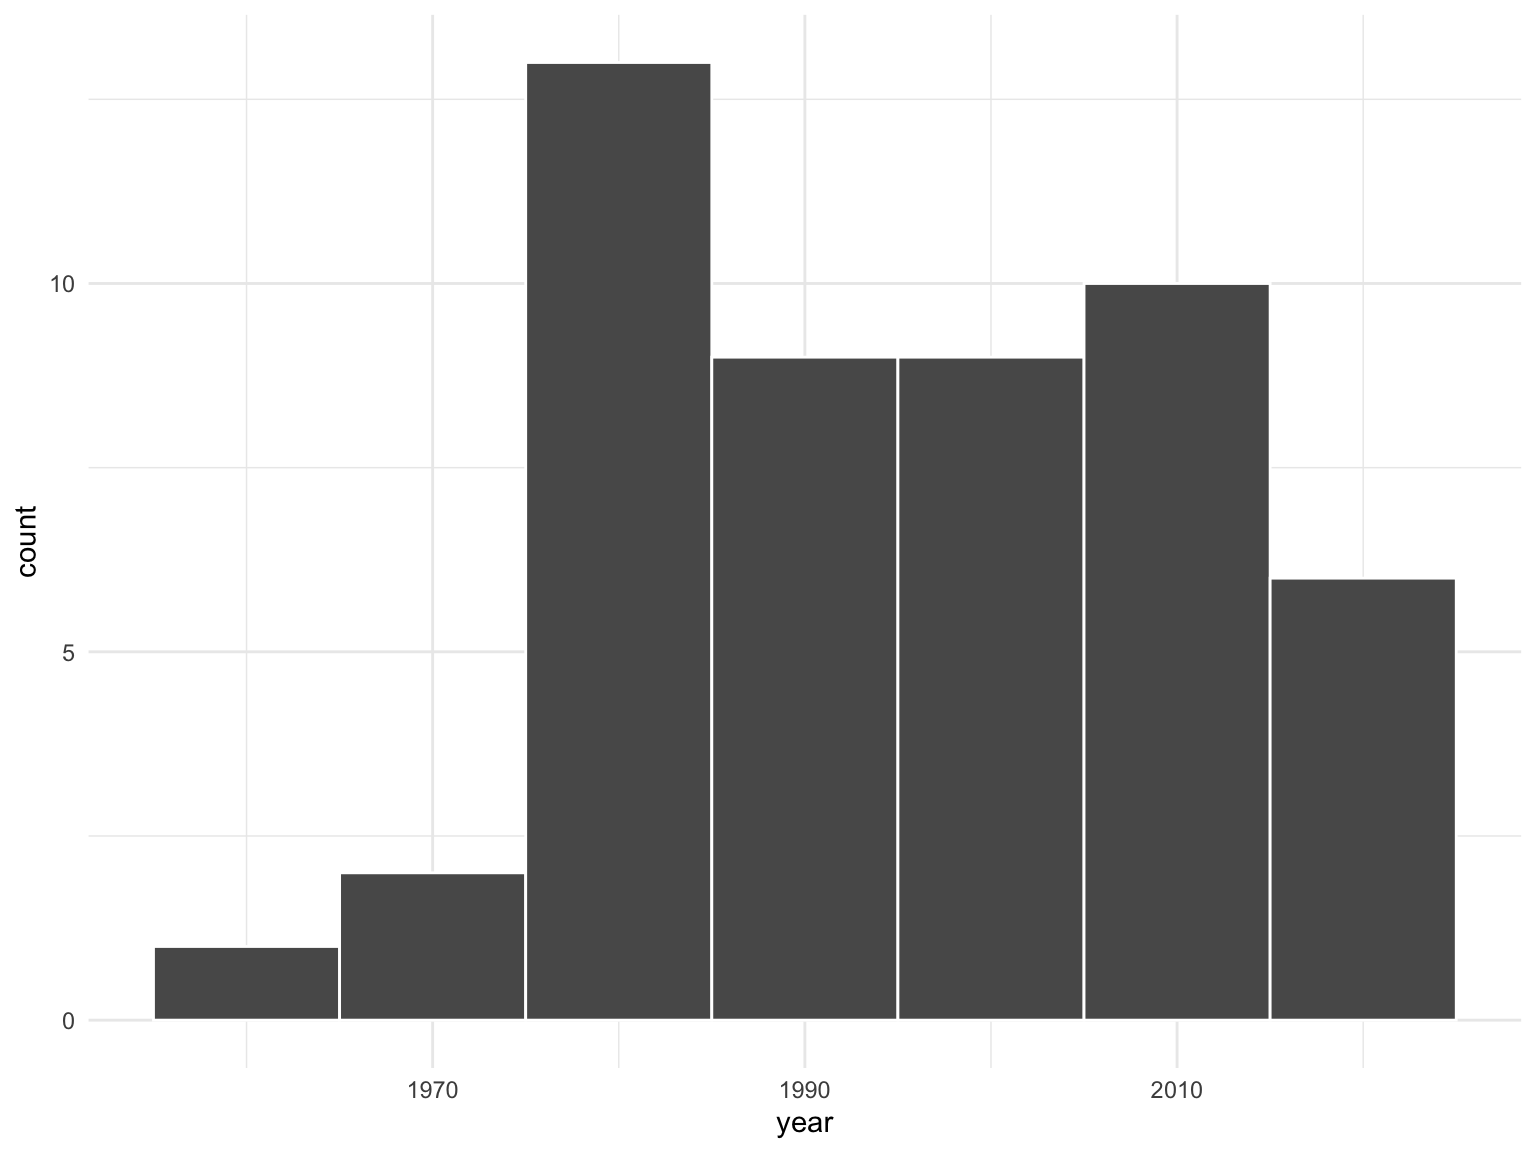
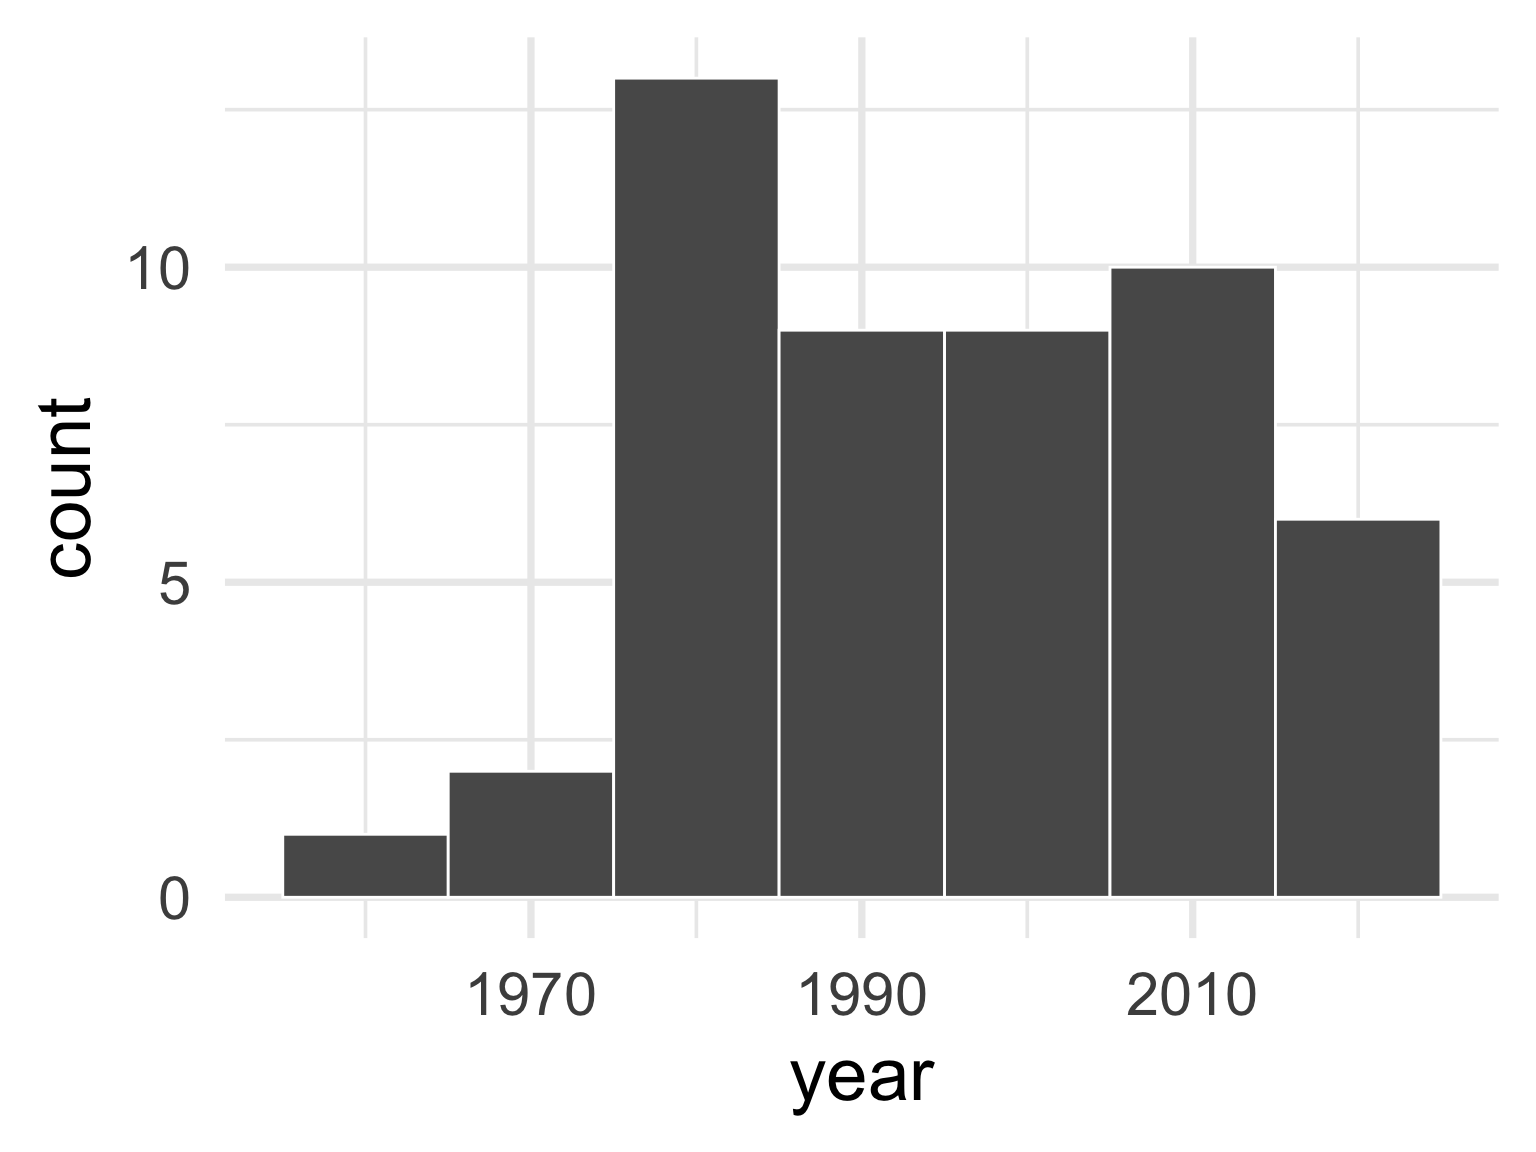
fixes slides

diff --git a/docs/slides/19_simulation-based-inference.html b/docs/slides/19_simulation-based-inference.html
@@ -556,7 +556,7 @@ Peter Gao
 <div class="sourceCode cell-code" id="cb9"><pre class="sourceCode numberSource r number-lines code-with-copy"><code class="sourceCode r"><span id="cb9-1"><a></a><span class="fu">library</span>(tidyverse)</span>
 <span id="cb9-2"><a></a><span class="fu">ggplot</span>(pennies_sample, <span class="fu">aes</span>(<span class="at">x =</span> year)) <span class="sc">+</span></span>
 <span id="cb9-3"><a></a>  <span class="fu">geom_histogram</span>(<span class="at">binwidth =</span> <span class="dv">10</span>, <span class="at">color =</span> <span class="st">"white"</span>) <span class="sc">+</span></span>
-<span id="cb9-4"><a></a>  <span class="fu">theme_minimal</span>()</span></code><button title="Copy to Clipboard" class="code-copy-button"><i class="bi"></i></button></pre></div>
+<span id="cb9-4"><a></a>  <span class="fu">theme_minimal</span>(<span class="at">base_size =</span> <span class="dv">28</span>)</span></code><button title="Copy to Clipboard" class="code-copy-button"><i class="bi"></i></button></pre></div>
 
 </div>
 <img data-src="19_simulation-based-inference_files/figure-revealjs/pennies_2-1.png" class="quarto-figure quarto-figure-center r-stretch" style="width:80.0%" alt="Bar chart showing counts for years 1970, 1990, 2000, 2010, and 2020. "></section>
@@ -610,7 +610,7 @@ Peter Gao
 <span id="cb16-4"><a></a><span class="fu">ggplot</span>(pennies_combined, <span class="fu">aes</span>(<span class="at">x =</span> year)) <span class="sc">+</span></span>
 <span id="cb16-5"><a></a>  <span class="fu">geom_histogram</span>(<span class="at">binwidth =</span> <span class="dv">10</span>, <span class="at">color =</span> <span class="st">"white"</span>) <span class="sc">+</span></span>
 <span id="cb16-6"><a></a>  <span class="fu">facet_wrap</span>(<span class="sc">~</span>title) <span class="sc">+</span> </span>
-<span id="cb16-7"><a></a>  <span class="fu">theme_minimal</span>()</span></code><button title="Copy to Clipboard" class="code-copy-button"><i class="bi"></i></button></pre></div>
+<span id="cb16-7"><a></a>  <span class="fu">theme_minimal</span>(<span class="at">base_size =</span> <span class="dv">14</span>)</span></code><button title="Copy to Clipboard" class="code-copy-button"><i class="bi"></i></button></pre></div>
 
 </div>
 <img data-src="19_simulation-based-inference_files/figure-revealjs/pennies_5-1.png" class="quarto-figure quarto-figure-center r-stretch" style="width:100.0%" alt="Two bar charts comparing 'Original sample' and 'Resample' data by year (1970, 1990, 2010). The y-axis is labeled 'count,' and the x-axis is labeled 'year.' "></section>
@@ -661,7 +661,7 @@ Peter Gao
 <div class="sourceCode cell-code" id="cb21"><pre class="sourceCode numberSource r number-lines code-with-copy"><code class="sourceCode r"><span id="cb21-1"><a></a><span class="fu">ggplot</span>(resampled_means, <span class="fu">aes</span>(<span class="at">x =</span> mean_year)) <span class="sc">+</span></span>
 <span id="cb21-2"><a></a>  <span class="fu">geom_histogram</span>(<span class="at">binwidth =</span> <span class="dv">1</span>, <span class="at">color =</span> <span class="st">"white"</span>, <span class="at">boundary =</span> <span class="dv">1990</span>) <span class="sc">+</span></span>
 <span id="cb21-3"><a></a>  <span class="fu">labs</span>(<span class="at">x =</span> <span class="st">"Sampled mean year"</span>) <span class="sc">+</span></span>
-<span id="cb21-4"><a></a>  <span class="fu">theme_minimal</span>()</span></code><button title="Copy to Clipboard" class="code-copy-button"><i class="bi"></i></button></pre></div>
+<span id="cb21-4"><a></a>  <span class="fu">theme_minimal</span>(<span class="at">base_size =</span> <span class="dv">20</span>)</span></code><button title="Copy to Clipboard" class="code-copy-button"><i class="bi"></i></button></pre></div>
 
 </div>
 <img data-src="19_simulation-based-inference_files/figure-revealjs/pennies_8-1.png" class="quarto-figure quarto-figure-center r-stretch" style="width:100.0%" alt="Bar chart showing count distribution over sampled years 1989, 1992, 1995, and 1998, with highest count of 8 in 1995."></section>
@@ -722,7 +722,7 @@ Peter Gao
 <span id="cb30-3"><a></a>  <span class="fu">geom_vline</span>(<span class="at">xintercept =</span> <span class="fu">quantile</span>(virtual_resampled_means<span class="sc">$</span>mean_year, <span class="fu">c</span>(.<span class="dv">025</span>, .<span class="dv">975</span>)), </span>
 <span id="cb30-4"><a></a>             <span class="at">color =</span> <span class="st">'red'</span>) <span class="sc">+</span></span>
 <span id="cb30-5"><a></a>  <span class="fu">labs</span>(<span class="at">x =</span> <span class="st">"sample mean"</span>) <span class="sc">+</span></span>
-<span id="cb30-6"><a></a>  <span class="fu">theme_minimal</span>()</span></code><button title="Copy to Clipboard" class="code-copy-button"><i class="bi"></i></button></pre></div>
+<span id="cb30-6"><a></a>  <span class="fu">theme_minimal</span>(<span class="at">base_size =</span> <span class="dv">24</span>)</span></code><button title="Copy to Clipboard" class="code-copy-button"><i class="bi"></i></button></pre></div>
 
 </div>
 <img data-src="19_simulation-based-inference_files/figure-revealjs/pennies_12-1.png" class="quarto-figure quarto-figure-center r-stretch" style="width:100.0%" alt="Histogram showing the frequency distribution of sample means with vertical red lines marking 1990 and 2000."></section>
@@ -813,7 +813,8 @@ Peter Gao
 <span id="cb40-7"><a></a>  <span class="fu">geom_function</span>(<span class="at">fun =</span> dnorm, </span>
 <span id="cb40-8"><a></a>                <span class="at">args =</span> <span class="fu">list</span>(<span class="at">mean =</span> <span class="dv">0</span>, <span class="at">sd =</span> <span class="dv">1</span> <span class="sc">/</span> <span class="fu">sqrt</span>(<span class="dv">20</span>)),</span>
 <span id="cb40-9"><a></a>                <span class="fu">aes</span>(<span class="at">color =</span> <span class="st">"Parametric (Normal)"</span>)) <span class="sc">+</span></span>
-<span id="cb40-10"><a></a>  <span class="fu">xlab</span>(<span class="st">"Xbar - E(Xbar)"</span>)</span></code><button title="Copy to Clipboard" class="code-copy-button"><i class="bi"></i></button></pre></div>
+<span id="cb40-10"><a></a>  <span class="fu">xlab</span>(<span class="st">"Xbar - E(Xbar)"</span>) <span class="sc">+</span></span>
+<span id="cb40-11"><a></a>  <span class="fu">theme_minimal</span>(<span class="at">base_size =</span> <span class="dv">20</span>)</span></code><button title="Copy to Clipboard" class="code-copy-button"><i class="bi"></i></button></pre></div>
 </div>
 </section>
 <section id="bootstrap-samples-3" class="slide level2">
